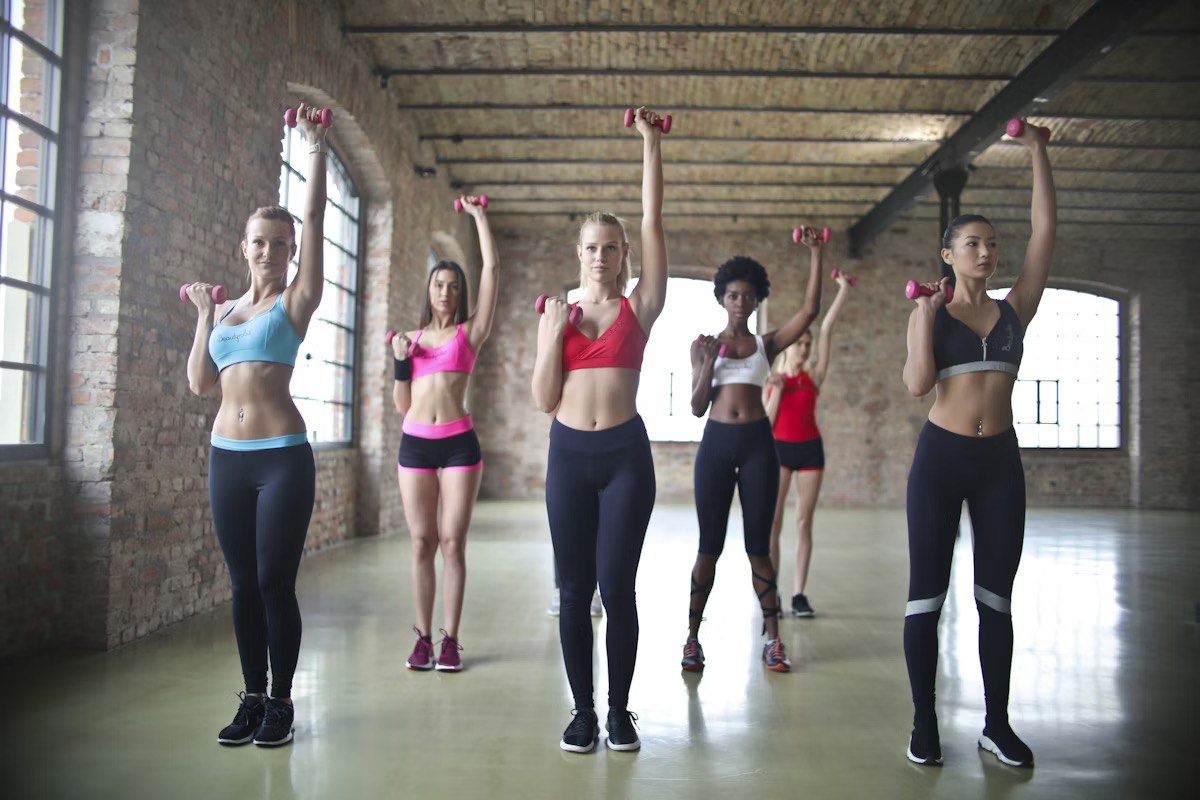
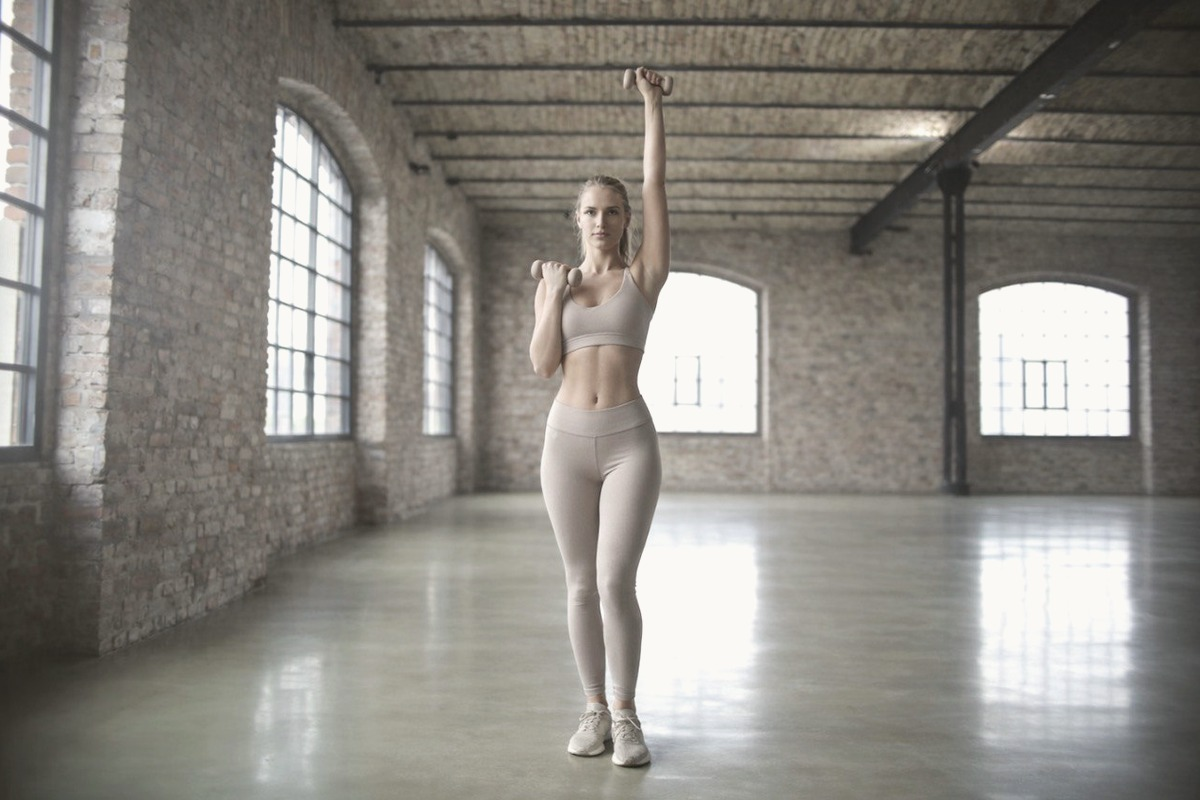
Use new single-athlete image, crop and tone-match to luxury beige style

diff --git a/index.html b/index.html
@@ -226,7 +226,7 @@
           </div>
         </article>
         <article class="card">
-          <img src="assets/group-workout.jpg" alt="Group workout session" />
+          <img src="assets/group-workout.jpg" alt="Elegant pilates-inspired strength session" />
           <div class="body">
             <h3>Built for Healthy Aging</h3>
             <p>Pilates-inspired movement, mobility, and strength designed for long-term health and vitality.</p>
